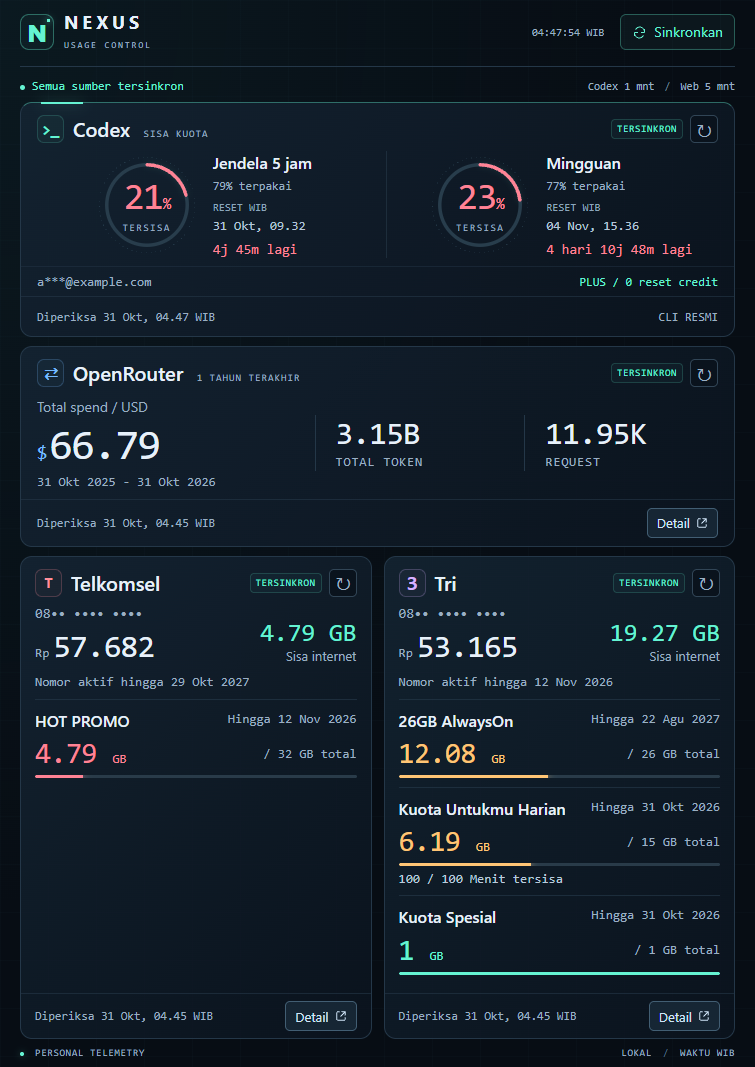
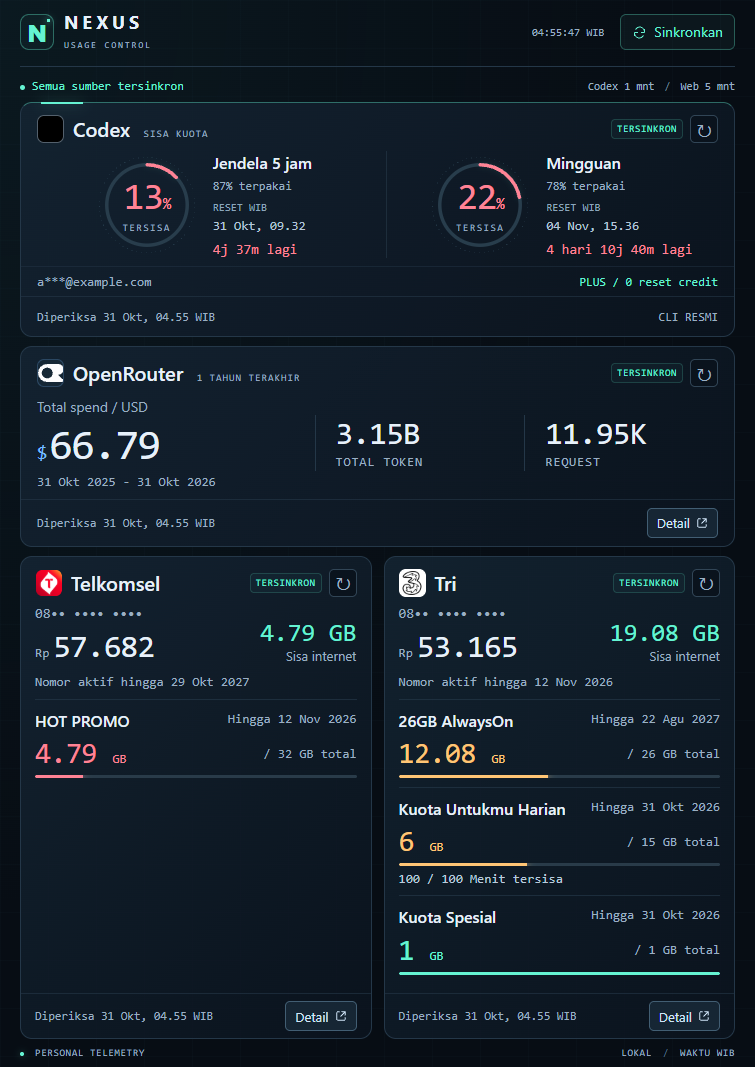
docs: publish cheerful README with masked dashboard screenshot

diff --git a/tools/capture-public-screenshot.js b/tools/capture-public-screenshot.js
@@ -1,0 +1,24 @@
+'use strict';
+// Capture a separately rendered, masked page. No unredacted image is saved.
+const fs=require('node:fs');const path=require('node:path');
+const {Neo}=require('../lib/neo');
+async function capture(){
+ const neo=new Neo();let pageId;
+ try{
+  const pages=await neo.run('return await browser.pages.list();');
+  const dashboard=pages.find(p=>p.url.startsWith('http://127.0.0.1:8792/'));
+  if(!dashboard)throw new Error('Dashboard tab not found');
+  await neo.tool('browser_target',{action:'set_window',windowId:dashboard.windowId,strict:true});
+  pageId=await neo.run("const p=await browser.open('http://127.0.0.1:8792/');return p.id;");
+  await neo.run(`const p=browser.page(${pageId});await p.cdp('Emulation.setDeviceMetricsOverride',JSON.stringify({width:755,height:1067,deviceScaleFactor:1,mobile:false}));const ready=await p.waitForText('Semua sumber tersinkron',{timeout:20000});if(!ready.matched)throw new Error('Dashboard not ready');return true;`);
+  const safe=await neo.run(`return await browser.page(${pageId}).evaluate(async()=>{const original=window.fetch;const response=await original('/api/state');const state=await response.json();state.sources.codex.data.account.email='a***@example.com';for(const key of ['telkomsel','tri'])state.sources[key].data.phone='08•• •••• ••••';for(const s of Object.values(state.sources))s.fetchedAt+=1;window.fetch=async function(input,...args){if(String(input)==='/api/state')return new Response(JSON.stringify(state),{status:200,headers:{'Content-Type':'application/json'}});return original.call(this,input,...args);};window.updateState(state);document.querySelector('.account-email').textContent='a***@example.com';document.querySelectorAll('.phone-number').forEach(e=>e.textContent='08•• •••• ••••');return {emailMasked:document.querySelector('.account-email').textContent==='a***@example.com',phonesMasked:[...document.querySelectorAll('.phone-number')].every(e=>e.textContent==='08•• •••• ••••')};});`);
+  const check=Neo.value(safe);if(!check.emailMasked||!check.phonesMasked)throw new Error('Masking check failed');
+  const assets=Neo.value(await neo.run(`return await browser.page(${pageId}).evaluate(async()=>{const images=[...document.querySelectorAll('.service-icon img')];await Promise.all(images.map(img=>img.decode()));return {logos:images.length,loaded:images.every(img=>img.naturalWidth>0),noHorizontalOverflow:document.documentElement.scrollWidth<=innerWidth,noVerticalOverflow:document.documentElement.scrollHeight<=innerHeight};});`));
+  if(assets.logos!==4||!assets.loaded||!assets.noHorizontalOverflow||!assets.noVerticalOverflow)throw new Error('Public screenshot layout or assets invalid');
+  const result=await neo.rpc('tools/call',{name:'screenshot',arguments:{page:pageId,format:'png',fullPage:true,...(neo.logicalSession?{session:neo.logicalSession}:{})}});
+  const img=result.content?.find(c=>c.type==='image');if(!img?.data)throw new Error('Screenshot image not returned');
+  const file=path.join(__dirname,'..','docs','images','dashboard-redacted.png');fs.mkdirSync(path.dirname(file),{recursive:true});fs.writeFileSync(file,Buffer.from(img.data,'base64'));
+  console.log(JSON.stringify({saved:'docs/images/dashboard-redacted.png',emailMasked:true,phonesMasked:true}));
+ }finally{if(pageId)try{await neo.run(`const p=browser.page(${pageId});await p.cdp('Emulation.clearDeviceMetricsOverride','{}');await p.close();return true;`);}catch{}}
+}
+capture().catch(()=>{console.error('Public screenshot capture failed; no account data logged');process.exitCode=1;});

diff --git a/VERIFICATION.md b/VERIFICATION.md
@@ -1,3 +1,11 @@
+## Final publication check, 31 October 2026
+
+- All three production HTTP readers succeeded with BROWSEROS_MCP_URL deliberately set to an unavailable local endpoint.
+- Compared 47 credential values from the encrypted vault against tracked text files: zero matches. Cookie metadata such as public domains and names is excluded from this secret check.
+- Screenshot masks email and both phone numbers before capture, confirms four provider images decode successfully, and asserts no horizontal or vertical overflow at 755 x 1067.
+- Official provider assets are stored locally; provenance is in public/logos/SOURCES.md.
+- node --test: 21 passed, zero failed.
+
 # Direct API migration and publication verification
 
 Latest check: 31 October 2026, WIB. This section supersedes the earlier browser-backed implementation notes below.
